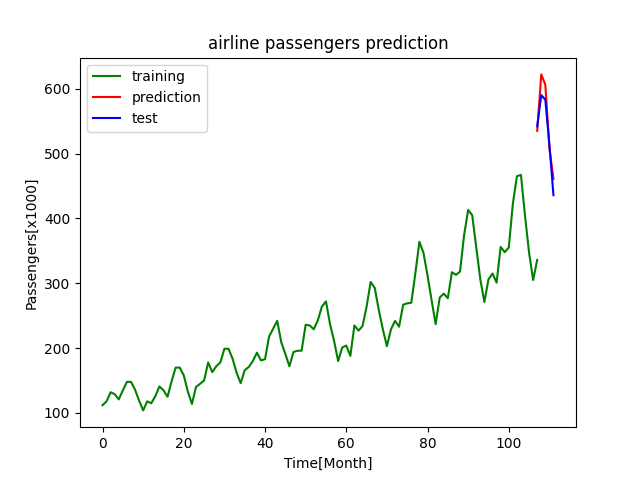
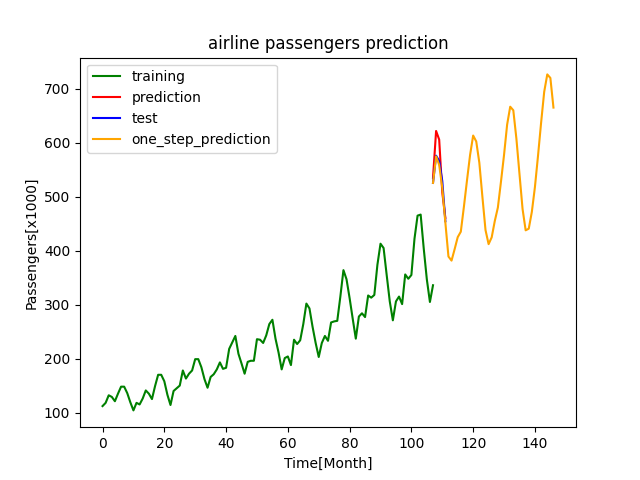
add one-step-ahead forecast to /airlinePassengers_pytorch

diff --git a/TimeSeriesPrediction/2_UnivariantTimeSeriesForecast/AirlinePassengers/Pytorch/airline_passengers_forecasting_pytorch.py b/TimeSeriesPrediction/2_UnivariantTimeSeriesForecast/AirlinePassengers/Pytorch/airline_passengers_forecasting_pytorch.py
@@ -106,9 +106,31 @@ validation["true"] = scaler.inverse_transform(test_targets).flatten()
 validation["Predictions"] = scaler.inverse_transform([validation_predictions]).flatten()
 validation.index += airline_passengers.threshold
 
+
+def one_step_ahead_forecast(model, current_value, number_of_predictions):
+    one_step_ahead_forecast = list()
+    for element in range(0, number_of_predictions):
+        prediction = model(torch.Tensor(current_value))
+        one_step_ahead_forecast.append(prediction.item())
+        current_value = np.delete(current_value, 0)
+        current_value = np.append(current_value, prediction.item())
+        current_value = current_value.reshape(1, 1, current_value.shape[0])
+    return one_step_ahead_forecast
+
+
+start_value = torch.Tensor(test_inputs[0])
+number_of_predictions = 40
+prediction_results = one_step_ahead_forecast(airline_passenger_model, start_value, number_of_predictions)
+
+prediction = pd.DataFrame()
+prediction["one_step_prediction"] = scaler.inverse_transform([prediction_results]).flatten()
+prediction.index += airline_passengers.threshold
+
+
 plt.plot(airline_passengers.get_train_data(), color="green", label="training")
 plt.plot(validation["true"], color="red", label="prediction")
 plt.plot(validation["Predictions"], color="blue", label="test")
+plt.plot(prediction["one_step_prediction"], color="orange", label="one_step_prediction")
 plt.title("airline passengers prediction")
 plt.xlabel("Time[Month]")
 plt.ylabel("Passengers[x1000]")
